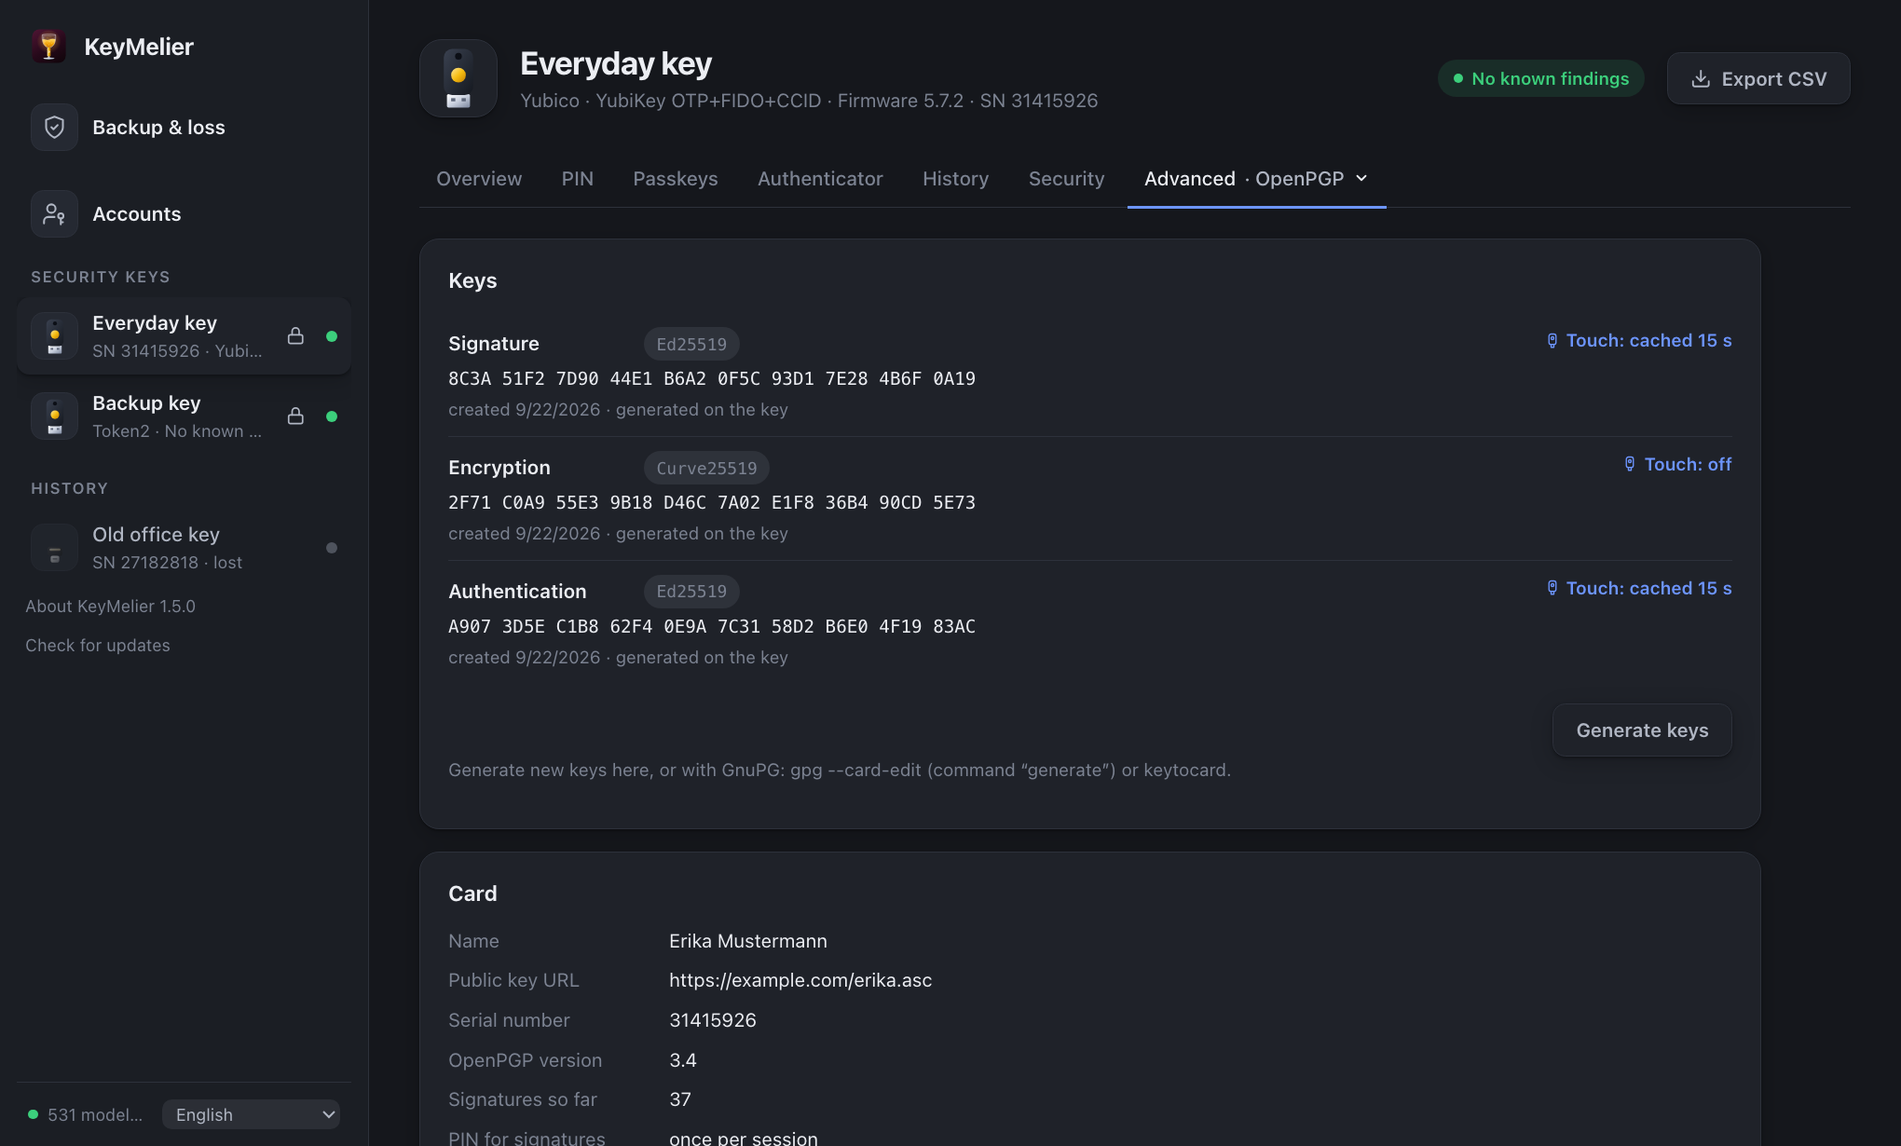
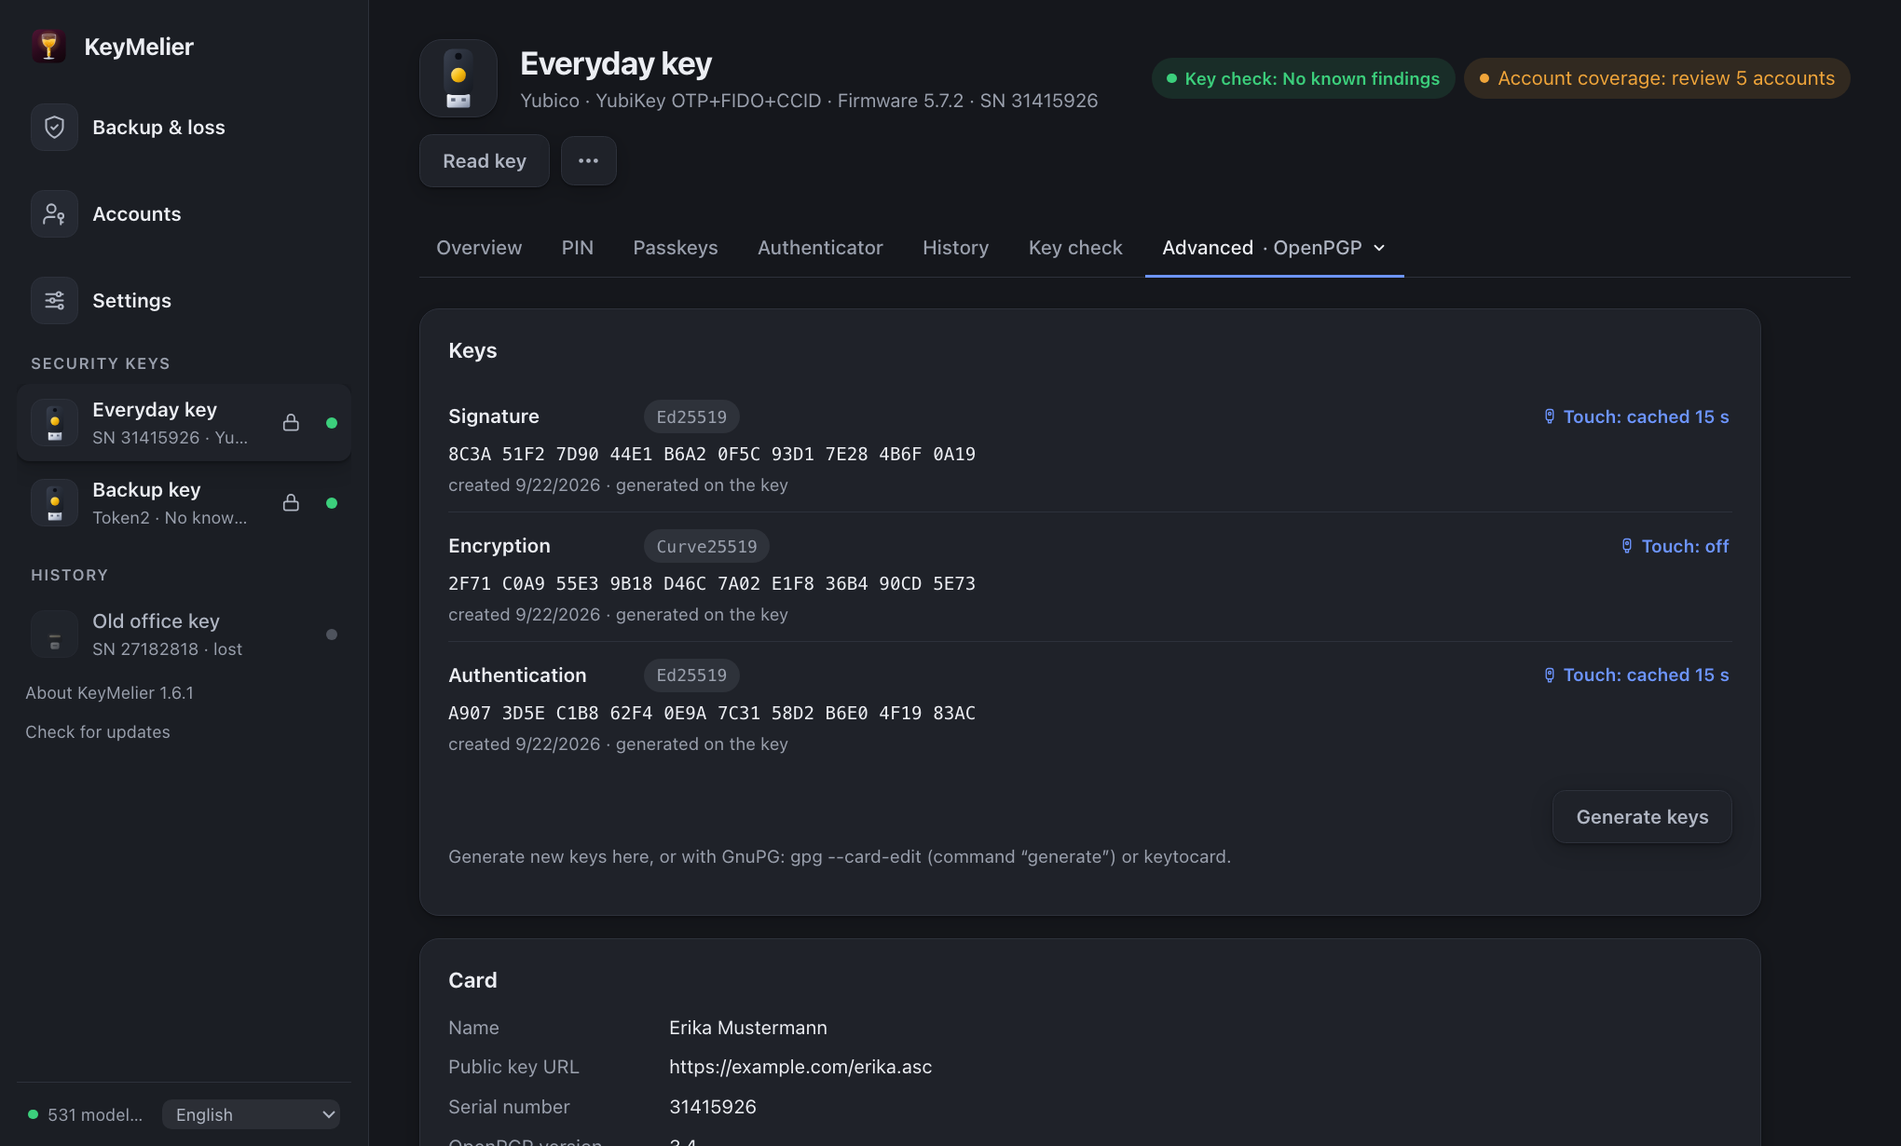
Docs: guide and screenshots for the revised UI; changelog

diff --git a/docs/guide.html b/docs/guide.html
@@ -36,7 +36,8 @@
 <nav>
   <a class="home" href="index.html"><img src="icon.svg" alt="">KeyMelier</a>
   <a href="#install">Install &amp; first launch</a>
-  <a href="#overview">Overview &amp; security check</a>
+  <a href="#overview">Overview &amp; checks</a>
+  <a href="#appsettings">App settings</a>
   <h4>FIDO2</h4>
   <a href="#security">Security &amp; authenticity</a>
   <a href="#pin">PIN</a>
@@ -59,7 +60,7 @@
 <main>
   <h1>Documentation</h1>
   <p class="muted">For KeyMelier <span data-latest-version>– see the latest release</span>. Screenshots use fictional demo data.</p>
-  <p>The tab bar of a key shows the everyday areas directly – Overview, PIN, Passkeys, Fingerprints, Authenticator, History, Security. OpenPGP, PIV, OTP, the key settings and the technical details are in the <b>Advanced</b> menu at its end (also by keyboard: arrow keys, Esc). Areas a key does not support are not shown.</p>
+  <p>The sidebar has three global areas – <b>Backup &amp; loss</b>, <b>Accounts</b> and <b>Settings</b> (app settings for this computer) – and below them your keys. The tab bar of a key shows the everyday areas directly – Overview, PIN, Passkeys, Fingerprints, Authenticator, History, Key check. OpenPGP, PIV, OTP, the <b>key settings</b> and the technical details are in the <b>Advanced</b> menu at its end (also by keyboard: arrow keys, Esc). Areas a key does not support are not shown.</p>
 
   <h2 id="install">Install &amp; first launch</h2>
   <p>Download the disk image (macOS) or the installer (Windows) from the <a href="https://github.com/FiraSenax/KeyMelier/releases/latest">latest release</a> – the buttons on the home page link to them directly. Each release lists SHA-256 checksums – compare them if in doubt.</p>
@@ -80,10 +81,11 @@
   <p>When a new version is published, a notice appears in the sidebar. <b>Download update</b> fetches the disk image or installer for your system into <b>Downloads</b>, checks it against the SHA-256 checksum published with the release and opens it. You install it yourself: on macOS quit KeyMelier and drag the new version to Applications, on Windows follow the installer. KeyMelier never installs anything on its own. To check yourself, click the version at the bottom of the sidebar (<b>Check for updates</b>), or use <b>KeyMelier → Check for Updates…</b> in the macOS menu or the menu bar icon.</p>
   <p>Plug in a key – it appears in the sidebar within a second. KeyMelier follows your system language (11 languages) and light/dark mode; the language can be changed at the bottom left.</p>
 
-  <h2 id="overview">Overview &amp; security check</h2>
-  <img class="shot" src="img/overview.png" alt="Overview of a key with tiles and the security check">
-  <p>The sidebar lists connected keys and, below, keys seen before – with the serial number that is usually printed or engraved on the key, so you know which physical key is which. The small lock next to a key unlocks it with the PIN and reads everything on it at once (passkeys, authenticator, OpenPGP, certificates) – the quickest way to keep the account overview current. The overview shows the most important facts as tiles and a <b>security check</b>: a prioritised list of what to improve – for example websites that exist on only one key, a missing PIN or a known vulnerability. <b>Fix</b> jumps to the right place.</p>
-  <p>The status next to the name means:</p>
+  <h2 id="overview">Overview &amp; checks</h2>
+  <img class="shot" src="img/overview.png" alt="Overview of a key: key check and account coverage, passkeys, authenticator, open tasks">
+  <p>The sidebar lists connected keys and, below, keys seen before – with the serial number that is usually printed or engraved on the key (hover for the full line). <b>Read key</b> (next to the key's name, or the small lock in the sidebar) unlocks it with the PIN and reads everything on it at once – passkeys, authenticator, OpenPGP, certificates; older keys without a passkey list are searched instead. KeyMelier never tries a PIN on its own. <b>⋯</b> holds further actions such as the CSV export.</p>
+  <p>Two statements are kept apart on purpose: the <b>key check</b> is about the device (authenticity, vulnerabilities, PIN), <b>account coverage</b> is about the accounts that depend on this key (only on this key, unclear, …). A technically flawless key can still have accounts without a backup. The overview leads with what is on the key – passkeys, authenticator accounts and open tasks; areas that were not read say "Not read" rather than showing an empty count. Below, the checks list what to improve; <b>Fix</b> jumps to the right place.</p>
+  <p>The key check status means:</p>
   <ul>
     <li><b>No known findings</b> – a certified model, authenticity verified, current metadata and vulnerability data, nothing found.</li>
     <li><b>Warning / Critical</b> – a known vulnerability, a revoked or compromised model, or a failed authenticity test.</li>
@@ -91,7 +93,7 @@
   </ul>
 
   <h2 id="security">Security &amp; authenticity</h2>
-  <img class="shot" src="img/security.png" alt="Security tab with advisories, function test and quantum safety">
+  <img class="shot" src="img/security.png" alt="Key check tab with advisories, function test and quantum safety">
   <ul>
     <li><b>Security advisories</b>: known vulnerabilities for this model and firmware, from KeyMelier's signed database, which updates itself.</li>
     <li><b>Function test</b>: registers a test login, signs in and verifies the signature like a real website – nothing is stored on the key.</li>
@@ -107,11 +109,11 @@
 
   <h2 id="passkeys">Passkeys</h2>
   <img class="shot" src="img/passkeys.png" alt="Passkeys grouped by website">
-  <p>Unlock with the PIN (or fingerprint) to list the passkeys stored on the key, grouped by website. Rename or delete them. Deleting a passkey here does not remove it from the website – remove it there too. The unlock is held in memory for a few minutes only.</p>
+  <p>Unlock with the PIN (or fingerprint) to list the passkeys stored on the key, grouped by website – search by website or account; <b>Details</b> shows the protection level and credential id. Rename or delete them (deleting asks again). Deleting a passkey here does not remove it from the website – remove it there too. The unlock is held in memory for a few minutes only.</p>
   <p class="note">Classic two-factor registrations (U2F) are not stored on the key and therefore do not appear in this list.</p>
 
   <h2 id="settings">Key settings &amp; reset</h2>
-  <p>In <b>Advanced → Settings</b>.</p>
+  <p>In <b>Advanced → Key settings</b>.</p>
   <img class="shot" src="img/settings.png" alt="Settings tab with key options and applications per interface">
   <ul>
     <li><b>Key settings</b>: minimum PIN length, always require PIN or fingerprint, force a PIN change.</li>
@@ -159,30 +161,34 @@
 
   <h2 id="accounts">Account overview</h2>
   <img class="shot" src="img/accounts.png" alt="Account overview across all keys">
-  <p><b>Accounts</b> (top of the sidebar) lists every account across all your keys – passkeys and authenticator codes – grouped by service, with a rating for each: only on a lost key, only on one key (add it to a second one), passkey plus code on another key, codes only, account unclear, or passkey on several keys. Problems come first; search and "Only what needs action" help with long lists. The column headers show how many passkey slots each key has left and when it was last read.</p>
+  <p><b>Accounts</b> (top of the sidebar) lists every account across all your keys – passkeys and authenticator codes – grouped by service, with a rating for each: only on a lost key, only on one key (add it to a second one), passkey plus code on another key, codes only, account unclear, or passkey on several keys. The summary cards show the totals and work as <b>filters</b> (also by keyboard), together with the search; <b>Reset filter</b> shows everything again. The legend above the table explains the cells; header row and account column stay visible while you scroll. For problem accounts, <b>Next step</b> explains what to do at the service – KeyMelier cannot copy or register anything there by itself. The column headers show how many passkey slots each key has left and when it was last read.</p>
   <p>The rating is deliberately strict. An account counts as the same only with the <b>same website ID (rpId) and the same account name</b> – two accounts at the same service (e.g. two Microsoft UPNs) are rated separately, and a similar-looking domain is never merged. Passkeys whose account name is unknown (older keys without the PIN) are shown as "account unclear" and are never counted as anyone's backup. A code is linked to a passkey only by an identical account name and marked as such. Keys marked as lost never count as protection.</p>
   <p>Every cell says where the information comes from – <b>read from the key</b>, <b>found by search</b> (older keys) or <b>imported</b> – and when. A key that was never read shows <b>?</b> ("not known") instead of "not there". For older keys that can only be searched, "not there" is shown only for a website the search actually asked and the key answered "no credentials" – websites not asked, errors and incomplete answers stay <b>?</b>. Display names (e.g. "Administrator") are shown but never used to match accounts. Information older than 90 days is marked as stale.</p>
-  <p>The overview assumes that <b>all keys belong to you</b>. If you manage keys for several people, turn off <b>All keys belong to me</b> under Backup &amp; loss: the overview, the backup tables and the "backup on" hints are then hidden, because one person's key is not another person's backup.</p>
+  <p>The overview assumes that <b>all keys belong to you</b>. If you manage keys for several people, turn off <b>All keys belong to me</b> under Settings: the overview, the backup tables and the "backup on" hints are then hidden, because one person's key is not another person's backup.</p>
   <p class="note">KeyMelier only knows what it has read: open Passkeys and Authenticator once per key. Classic U2F registrations are not stored on the key and cannot appear. A passkey on a key is not proof that signing in at the service works.</p>
 
   <h2 id="backup">Backup &amp; lost keys</h2>
   <img class="shot" src="img/backup.png" alt="Backup overview of websites and accounts per key">
-  <p><b>Backup &amp; loss</b> (top of the sidebar) sums up how well your accounts are covered – with the same strict rating as the account overview, which opens from here. Here you also switch history and remembering contents on or off, and <b>export or import</b> the history to back it up or move it to another computer.</p>
+  <p><b>Backup &amp; loss</b> (top of the sidebar) shows the three things to act on, in this order: how well your accounts are covered (<b>Review accounts</b> opens the account overview; the cards open it filtered), <b>Lost a key?</b> and <b>Replace an old key</b>. A line at the bottom shows the sync status.</p>
+
+  <h2 id="appsettings">App settings</h2>
+  <img class="shot" src="img/settings_app.png" alt="App settings: data on this computer, history transfer, sync">
+  <p><b>Settings</b> in the sidebar apply to KeyMelier on this computer, for all keys: remembering what is on the keys, saving the history, "All keys belong to me", <b>export or import</b> of the history, and sync between computers. The settings of one key (PIN length, applications per interface, reset) are with that key under <b>Advanced → Key settings</b>.</p>
   <img class="shot" src="img/lost.png" alt="Lost-key assistant">
   <p>If a key is lost, pick it in <b>Lost a key?</b> and mark it as lost. You get a checklist: websites to remove the key from (with the keys that still work there), authenticator accounts to set up again, OpenPGP keys to revoke and certificates to have revoked.</p>
 
   <h2 id="replace">Replacing a key</h2>
   <img class="shot" src="img/replace.png" alt="Replacing an old key: comparison with the new key">
-  <p><b>Replace an old key</b> (under Backup &amp; loss) compares what KeyMelier knows about the old key with a new one and walks you through the move. Pick the old and the new key (with serial numbers). Each passkey, authenticator account, OpenPGP key, certificate and OTP slot of the old key is listed with two separate marks:</p>
+  <p><b>Replace an old key</b> (under Backup &amp; loss) opens a guided view in four steps: <b>1</b> choose the old and the new key (with serial numbers), <b>2</b> compare, <b>3</b> sign in at each service with the new key and confirm, <b>4</b> see what is still open. <b>Open entries only</b> hides what is done. Each passkey, authenticator account, OpenPGP key, certificate and OTP slot of the old key carries two separate marks:</p>
   <ul>
     <li><b>Found on the new key</b> – checked by KeyMelier from what the new key showed when it was last read (same website and account name, same authenticator account, same OpenPGP fingerprint). A certificate with the same name or a used OTP slot is only "similar" – not proof of the same key. "New key not read yet" means: plug it in and open the areas once.</li>
-    <li><b>Confirmed by you</b> – your own tick when you have finished a service. KeyMelier cannot check whether signing in works.</li>
+    <li><b>Confirmed by you</b> – your own tick when you have finished a service. KeyMelier cannot check whether signing in works, and a tick never replaces the technical check: a ticked entry that was not found on the new key stays open and is marked "not technically verified".</li>
   </ul>
   <p>Private keys cannot be copied from one security key to another: register the new key at each service, set up authenticator accounts again (or from a QR code you kept), load OpenPGP keys only from your own backup or create new ones, and have certificates reissued. Progress is saved with the history; with history off it lasts until KeyMelier quits, and with "remember contents" off there is nothing to compare. KeyMelier never resets or deletes anything on either key – remove the old key at every service first, then reset it yourself.</p>
 
   <h2 id="sync">Sync between computers</h2>
   <img class="shot" src="img/sync.png" alt="Sync between computers: folder, this computer and the other computers">
-  <p>Using KeyMelier on several computers? Under <b>Backup &amp; loss → Sync between computers</b>, pick a folder that you already sync – iCloud Drive, OneDrive, Dropbox, Syncthing or a NAS share – and set a passphrase. Do the same on every computer with the same passphrase. KeyMelier writes one file per computer into that folder and merges the files of the others every half minute: key names, history, what is on each key, lost and replacement status. The newest decision wins, including "no longer lost" and "removed from history".</p>
+  <p>Using KeyMelier on several computers? Under <b>Settings → Sync between computers</b>, pick a folder that you already sync – iCloud Drive, OneDrive, Dropbox, Syncthing or a NAS share – and set a passphrase. Do the same on every computer with the same passphrase. KeyMelier writes one file per computer into that folder and merges the files of the others every half minute ("last synced locally" means this computer read the folder and wrote its file – not that your cloud service has already delivered it everywhere): key names, history, what is on each key, lost and replacement status. The newest decision wins, including "no longer lost" and "removed from history".</p>
   <p>Every computer only writes its own file and replaces it in one step, so two computers never write the same file. A file that is still arriving through the cloud is simply read again at the next check; an error is shown only if it stays unreadable.</p>
   <p class="note">The files are encrypted with your passphrase (scrypt, AES-256-GCM). Whoever can see the folder only sees random ids. The passphrase is kept in the macOS Keychain or Windows Credential Manager and cannot be recovered. Security ratings are never synced – each computer checks a key when it is plugged in there. Sync needs the saved history and is off in stateless mode.</p>
 
@@ -199,8 +205,8 @@
   <ul>
     <li><b>Key not detected on Windows</b>: run KeyMelier as administrator.</li>
     <li><b>"The smart card interface is used by another program"</b>: usually GnuPG. Run <code>gpgconf --kill scdaemon</code> and try again.</li>
-    <li><b>Authenticator/OpenPGP/PIV missing</b> (OpenPGP and PIV are in the Advanced menu): the key has no smart card interface, it is disabled under Advanced → Settings, or several keys of the same model are connected – plug in only one.</li>
-    <li><b>Authenticity test "not performed"</b>: touch the key when it blinks right after plugging it in, or run the test again in the Security tab (with PIN if asked).</li>
+    <li><b>Authenticator/OpenPGP/PIV missing</b> (OpenPGP and PIV are in the Advanced menu): the key has no smart card interface, it is disabled under Advanced → Key settings, or several keys of the same model are connected – plug in only one.</li>
+    <li><b>Authenticity test "not performed"</b>: touch the key when it blinks right after plugging it in, or run the test again in the Key check tab (with PIN if asked).</li>
     <li><b>OTP slots cannot be read on macOS</b>: grant Input Monitoring (see <a href="#otp">OTP slots</a>).</li>
     <li>Anything else: <a href="https://github.com/FiraSenax/KeyMelier/issues">open an issue</a>.</li>
   </ul>

diff --git a/tools/docs_demo.js b/tools/docs_demo.js
@@ -122,7 +122,7 @@
     get_settings: () => ({ history_enabled: true, remember_sites: true, lang: 'en', stateless: false, system_languages: ['en-US'] }),
     data_status: () => ({ advisories: { source: 'downloaded', updated: iso(4 * D), count: 14 },
       mds: { cached: true, fetched_at: iso(6 * H), entry_count: 531, serial: 291, current: true, next_update: new Date(now + 20 * D).toISOString().slice(0, 10), revocation_checked: true, verified: true },
-      last_check: iso(6 * H), app: { current: '1.5.0', latest: '1.5.0', newer: false } }),
+      last_check: iso(6 * H), app: { current: '1.6.1', latest: '1.6.1', newer: false } }),
     mds_status: () => api.data_status().mds,
     tokens: () => ({ tokens }),
     history_list: () => ({ keys: Object.values(history).map(summary) }),

diff --git a/tools/screenshots.py b/tools/screenshots.py
@@ -17,7 +17,7 @@ ROOT = Path(__file__).resolve().parent.parent
 sys.path.insert(0, str(ROOT))
 
 SCENES = ["overview", "security", "pin", "passkeys", "oath", "openpgp", "openpgp-generate", "piv", "otp",
-          "settings", "history", "details", "accounts", "backup", "lost", "replace", "sync", "about"]
+          "settings", "history", "details", "accounts", "backup", "lost", "replace", "sync", "settings_app", "about"]
 CHROME_CANDIDATES = [
     "/Applications/Google Chrome.app/Contents/MacOS/Google Chrome",
     "/Applications/Microsoft Edge.app/Contents/MacOS/Microsoft Edge",

diff --git a/CHANGELOG.md b/CHANGELOG.md
@@ -1,5 +1,17 @@
 # Changelog
 
+## Unreleased
+
+UI revision – what needs attention and what to do next:
+
+- **Backup & loss** starts with account coverage (**Review accounts**), then **Lost a key?** and **Replace an old key**, plus a one-line sync status. Storage, history, "All keys belong to me", history export/import and sync setup moved to the new global **Settings** (app settings); a key's own settings are now called **Key settings**.
+- **Account overview:** the summary cards are filters (keyboard accessible), combined with the search, with a match count, "Reset filter" and an empty state. Header row and account column stay visible while scrolling; the legend sits above the table; **Next step** explains what to do for problem accounts – without promising any automatic transfer.
+- **Key check vs. account coverage:** the header, overview and checks keep "Key check" (the device) and "Account coverage" (accounts depending on the key) apart, so a flawless key can still show accounts without a backup. Unknown and stale data stay marked.
+- **Key overview** leads with passkeys, authenticator accounts and open tasks ("Not read" instead of an empty count); missing optional hardware is one compact line; **Read key** reuses the unlock dialog / passkey search (no automatic PIN attempts); CSV export moved into the **⋯** menu.
+- **Passkeys:** compact groups per service with search, labelled Rename/Delete and details on demand.
+- **Replacing a key** is a guided view in four steps (choose, compare, test & confirm, summary) with "Open entries only"; "found on the new key" and "confirmed by you" stay separate, a tick never counts as technical proof.
+- Readability: stronger contrast for hint and status text in light and dark mode, visible keyboard focus, larger click targets, focus kept in dialogs and returned on close, long explanations behind "Details", sync shown compactly ("last synced locally").
+
 ## 1.6.1 — 2026-09-27
 
 Bug fixes only.
